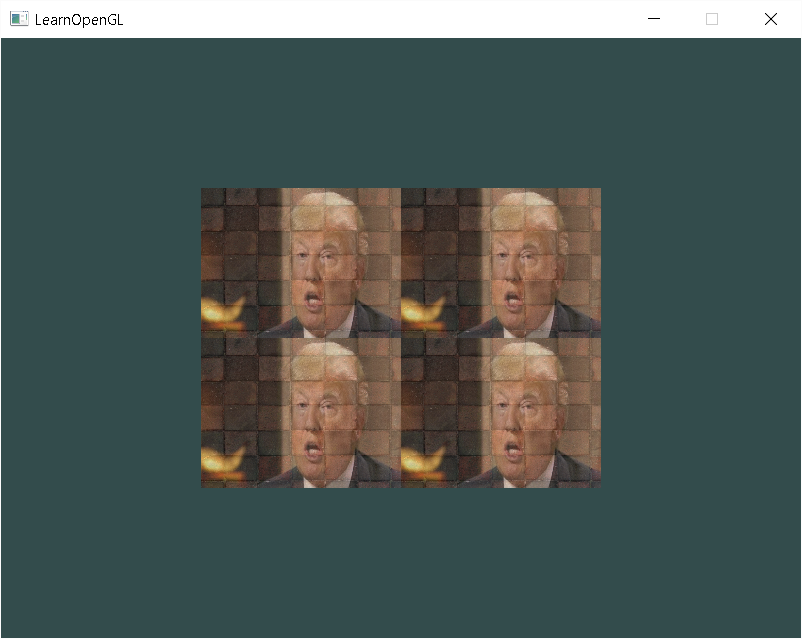
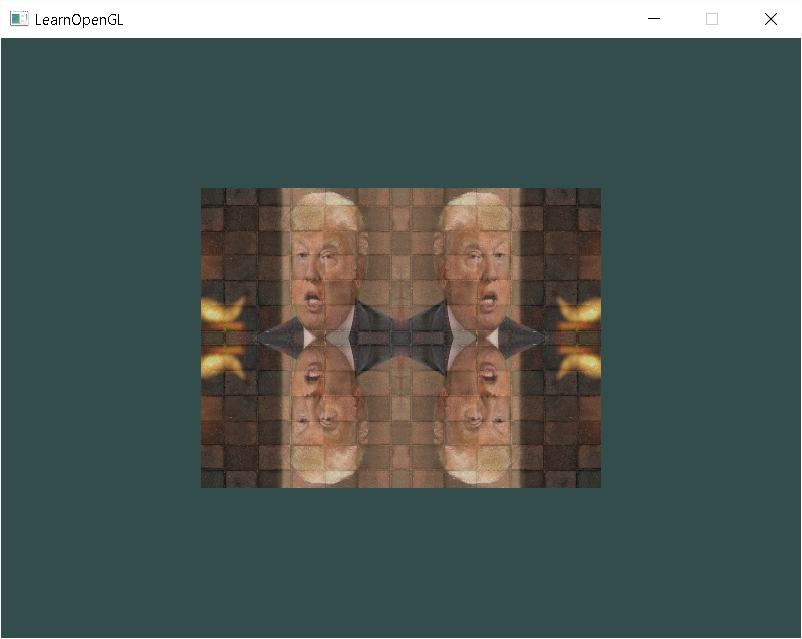
I just love my job

Changed region(s): [[0.2494, 0.2676, 0.7481, 0.7731]]

diff --git a/OpenGlFirst/Test.cpp b/OpenGlFirst/Test.cpp
@@ -65,10 +65,10 @@ int main()
     GLfloat vertices[] = 
 	{
         // Positions          // Colors           // Texture Coords
-         0.5f,  0.5f, 0.0f,   1.0f, 0.0f, 0.0f,   1.0f, 1.0f, // Top Right
-         0.5f, -0.5f, 0.0f,   0.0f, 1.0f, 0.0f,   1.0f, 0.0f, // Bottom Right
+         0.5f,  0.5f, 0.0f,   1.0f, 0.0f, 0.0f,   2.0f, 2.0f, // Top Right
+         0.5f, -0.5f, 0.0f,   0.0f, 1.0f, 0.0f,   2.0f, 0.0f, // Bottom Right
         -0.5f, -0.5f, 0.0f,   0.0f, 0.0f, 1.0f,   0.0f, 0.0f, // Bottom Left
-        -0.5f,  0.5f, 0.0f,   1.0f, 1.0f, 0.0f,   0.0f, 1.0f  // Top Left 
+        -0.5f,  0.5f, 0.0f,   1.0f, 1.0f, 0.0f,   0.0f, 2.0f  // Top Left 
     };
     GLuint indices[] =
 	{  // Note that we start from 0!
@@ -109,8 +109,8 @@ int main()
 	// ..:: First texture ::..
 	glBindTexture(GL_TEXTURE_2D, texture1); // All upcoming GL_TEXTURE_2D operations now have effect on this texture object
     // Set the texture wrapping parameters
-    glTexParameteri(GL_TEXTURE_2D, GL_TEXTURE_WRAP_S, GL_REPEAT);	// Set texture wrapping to GL_REPEAT (usually basic wrapping method)
-    glTexParameteri(GL_TEXTURE_2D, GL_TEXTURE_WRAP_T, GL_REPEAT);
+	glTexParameteri(GL_TEXTURE_2D, GL_TEXTURE_WRAP_S, GL_MIRRORED_REPEAT);	// Set texture wrapping to GL_REPEAT (usually basic wrapping method)
+    glTexParameteri(GL_TEXTURE_2D, GL_TEXTURE_WRAP_T, GL_MIRRORED_REPEAT);
     // Set texture filtering parameters
     glTexParameteri(GL_TEXTURE_2D, GL_TEXTURE_MIN_FILTER, GL_LINEAR);
     glTexParameteri(GL_TEXTURE_2D, GL_TEXTURE_MAG_FILTER, GL_LINEAR);
@@ -128,8 +128,8 @@ int main()
 	// ..:: Second texture ::.. 
 	glBindTexture(GL_TEXTURE_2D, texture2); // All upcoming GL_TEXTURE_2D operations now have effect on this texture object
     // Set the texture wrapping parameters
-    glTexParameteri(GL_TEXTURE_2D, GL_TEXTURE_WRAP_S, GL_REPEAT);	// Set texture wrapping to GL_REPEAT (usually basic wrapping method)
-    glTexParameteri(GL_TEXTURE_2D, GL_TEXTURE_WRAP_T, GL_REPEAT);
+    glTexParameteri(GL_TEXTURE_2D, GL_TEXTURE_WRAP_S, GL_MIRRORED_REPEAT);	// Set texture wrapping to GL_REPEAT (usually basic wrapping method)
+    glTexParameteri(GL_TEXTURE_2D, GL_TEXTURE_WRAP_T, GL_MIRRORED_REPEAT);
     // Set texture filtering parameters
     glTexParameteri(GL_TEXTURE_2D, GL_TEXTURE_MIN_FILTER, GL_LINEAR);
     glTexParameteri(GL_TEXTURE_2D, GL_TEXTURE_MAG_FILTER, GL_LINEAR);
